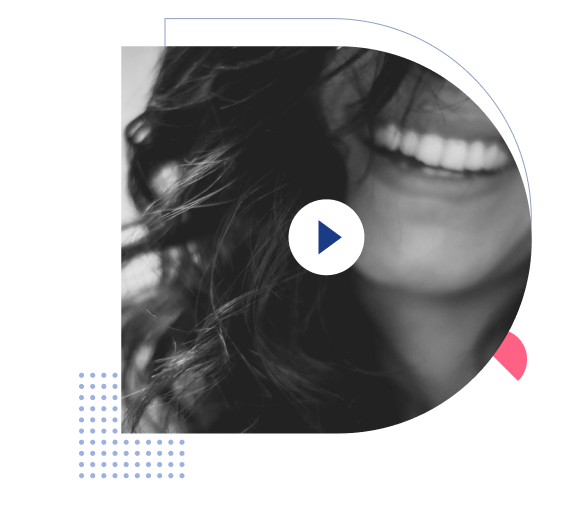
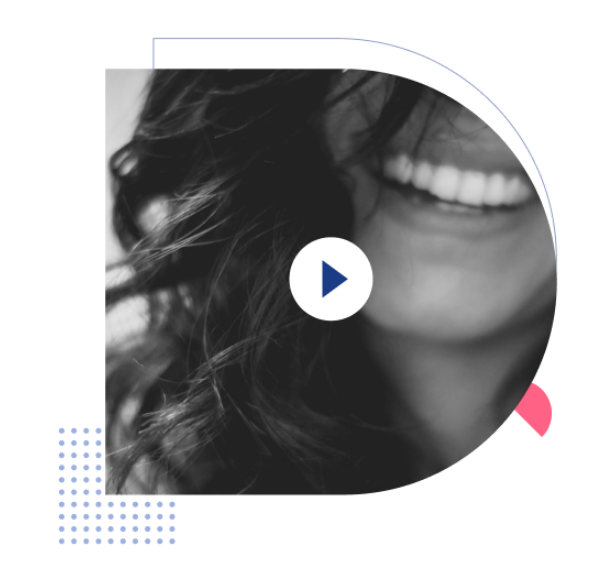
mobile version index fix2

Changed region(s): [[0.0895, 0.0302, 0.9544, 0.966], [0.4474, 0.7245, 0.507, 0.7547]]

diff --git a/index.html b/index.html
@@ -128,12 +128,15 @@
 
     <!-- section Two -->
     <div id="ServiceWeProvide" class="pb-5">
-        <div class="container-md pb-5">
+        <div class="container-md py-5">
             <div class="row">
-                <div class="col-sm-6 pt-5">
-                    <h1 class="ServiceTitle pt-5">Services We Provide</h1>
+                <div class="col">
+                    <h1 class="ServiceTitle">Services We Provide</h1>
                 </div>
-                <div class="col-sm-6 pt-5">
+                <div class="col pt-4 prev-next">
+                    <img src="img/prev-next.png" alt="prev-next" class="rounded mx-auto d-block">
+                </div>
+                <!-- <div class="col-sm-6 pt-5">
                     <div class="slideshow-container">
 
                         <div class="mySlides">
@@ -161,17 +164,17 @@
                         <span class="dot" onclick="currentSlide(2)"></span>
                         <span class="dot" onclick="currentSlide(3)"></span>
                     </div>
-                </div>
+                </div> -->
             </div>
             <!-- end first row -->
 
-            <div class="row">
+            <div class="row pt-5">
                 <div class="col-sm-4">
                     <div class="card" style="max-width:400px;">
                         <div class="card-img-overlay">
                             <img src="img/01.png" alt="01" class="img-fluid pt-3">
                         </div>
-                        <img class="card-img-top d-block " src="img/bright1.png" alt="Card image">
+                        <img class="card-img-top d-block" src="img/bright1.png" alt="Card image">
                         <div class="card-body ps-5">
                             <h4 class="card-title cardCss pt-2">Services We Provide</h4>
                             <p class="card-text mytag4 pt-2">Lorem ipsum dolor sit amet, consectetur adipiscing elit. Ut elit tellus, luctus nec ullamcorper mattis, </p>
@@ -209,52 +212,58 @@
     <!-- end section Two -->
 
     <!-- section Three -->
-    <div class="container-md pt-5 pb-5" id="OurBookingHours">
-        <h1 class="bookingHoursTitle center pt-5">Our Booking Hours</h1>
-        <p class="bookingHoursText center pt-4">inceptos himenaeos. Praesent et faucibus est. Fusce <br>viverra,ipsum nec laoreet porttitor, purus felis euismod turpis,</p>
+    <div class="container-md" id="OurBookingHours">
+        <h1 class="bookingHoursTitle center">Our Booking Hours</h1>
+        <p class="bookingHoursText center">inceptos himenaeos. Praesent et faucibus est. Fusce <br>viverra,ipsum nec laoreet porttitor, purus felis euismod turpis,</p>
 
-        <div class="pt-4 pb-5">
+        <div class="pb-1">
             <div class="gap-2 col-md-3 mx-auto button-box oneSpecial">
                 <fancyButton>Book Appointment</fancyButton>
             </div>
         </div>
 
     </div>
-    <div class="hoursTiming pt-4 pb-4">
+    <div class="hoursTiming py-4">
         <div class="row">
             <div class="col-sm-3">
-                <i class="fa-regular fa-clock icon-clock"></i>MON - FRI: 9 AM - 22 PM
+                <i class="fa-regular fa-clock icon-clock"></i>
+                <ct class="clock-text-css">MON - FRI: 9 AM - 22 PM</ct>
             </div>
             <div class="col-sm-3">
-                <i class="fa-regular fa-clock icon-clock"></i>MON - FRI: 9 AM - 22 PM
+                <i class="fa-regular fa-clock icon-clock"></i>
+                <ct class="clock-text-css">MON - FRI: 9 AM - 22 PM</ct>
             </div>
             <div class="col-sm-3">
-                <i class="fa-regular fa-clock icon-clock"></i>MON - FRI: 9 AM - 22 PM
+                <i class="fa-regular fa-clock icon-clock"></i>
+                <ct class="clock-text-css">MON - FRI: 9 AM - 22 PM</ct>
             </div>
             <div class="col-sm-3">
-                <i class="fa-regular fa-clock icon-clock"></i>MON - FRI: 9 AM - 22 PM
+                <i class="fa-regular fa-clock icon-clock"></i>
+                <ct class="clock-text-css">MON - FRI: 9 AM - 22 PM</ct>
             </div>
         </div>
     </div>
     <!-- end section Three -->
 
     <!-- section Four -->
-    <div class="container-md pt-5 pb-5">
+    <div class="container-md py-5">
         <div class="row">
             <div class="col-sm-1">
-                <img src="img/ballon.png" alt="ballon" class="img-fluid">
+                <img src="img/ballon.png" alt="ballon" class="img-fluid side-img-ballon">
             </div>
             <div class="col-sm-5">
-                <h1 class="video-section-hTag center pt-5">A Personalized Approach To Creating The Perfect Smile</h1>
-                <p class="video-section-paragraph pt-4">Curabitur ultricies est nulla, nec vestibulum erat imperdiet sit amet. Quisque ut viverra velit. Proin nunc nisi, ultrices ut risus a, blandit pulvinar ligula. Fusce convallis purus nunc, interdum pharetra lacus auctor nec.</p>
+                <h1 class="video-section-hTag">A Personalized Approach To Creating The Perfect Smile</h1>
+                <p class="video-section-paragraph pt-4" id="paragraph-center">Curabitur ultricies est nulla, nec vestibulum erat imperdiet sit amet. Quisque ut viverra velit. Proin nunc nisi, ultrices ut risus a, blandit pulvinar ligula. Fusce convallis purus nunc, interdum pharetra lacus auctor nec.</p>
 
-                <div class="button-box oneSpecial">
-                    <fancybutton>Book Appointment</fancybutton>
-                </div>
             </div>
             <div class="col-sm-6">
-                <img src="img/smiling-teeth.png" class="img-fluid pt-5" alt="smiling-teeth">
+                <img src="img/smiling-teeth.png" class="img-fluid" alt="smiling-teeth">
             </div>
+
+        </div>
+
+        <div class="button-box oneSpecial" id="button-box-center">
+            <fancybutton>Book Appointment</fancybutton>
         </div>
     </div>
     <!-- end section Four -->
@@ -262,12 +271,12 @@
     <!-- section Five -->
     <div id="ServiceWeProvide">
         <div class="container-md pb-5">
-            <div class="row">
-                <div class="col-sm-6 pt-5">
-                    <h1 class="ServiceTitle pb-5">What Our Clients Say</h1>
+            <div class="row py-5">
+                <div class="col">
+                    <h1 class="ServiceTitle">What Our Clients Say</h1>
                 </div>
-                <div class="col-sm-6 pt-5">
-                    <img src="img/prev-next.png" alt="prev-next" class="rounded mx-auto pt-3 d-block">
+                <div class="col pt-4 prev-next">
+                    <img src="img/prev-next.png" alt="prev-next" class="rounded mx-auto d-block">
                 </div>
             </div>
 
@@ -276,12 +285,12 @@
                     <div class="card" style="max-width:400px;">
                         <div class="card-body">
                             <h4 class="card-title cardCss pt-4">Hena Lee</h4>
-                            <i class="fa-solid fa-star"></i>
-                            <i class="fa-solid fa-star"></i>
-                            <i class="fa-solid fa-star"></i>
-                            <i class="fa-solid fa-star"></i>
-                            <i class="fa-solid fa-star"></i>
-                            <p class="card-text video-section-paragraph pt-5">
+                            <i class="fa-solid fa-star pt-2" style="color: #FFB800;"></i>
+                            <i class="fa-solid fa-star" style="color: #FFB800;"></i>
+                            <i class="fa-solid fa-star" style="color: #FFB800;"></i>
+                            <i class="fa-solid fa-star" style="color: #FFB800;"></i>
+                            <i class="fa-solid fa-star pb-2" style="color: #FFB800;"></i>
+                            <p class="card-text video-section-paragraph pt-2">
                                 Donec aliquet tellus sapien, id sagittis libero malesuada quis. Etiam molestie neque quis tortor luctus, quis congue erat placerat. Donec aliquet tellus sapien, id sagittis libero malesuada quis. Etiam molestieDonec aliquet tellus sapien, id sagittis
                                 libero malesuada quis.
                             </p>
@@ -293,12 +302,12 @@
                     <div class="card" style="max-width:400px;">
                         <div class="card-body">
                             <h4 class="card-title cardCss pt-4">Hena Lee</h4>
-                            <i class="fa-solid fa-star"></i>
-                            <i class="fa-solid fa-star"></i>
-                            <i class="fa-solid fa-star"></i>
-                            <i class="fa-solid fa-star"></i>
-                            <i class="fa-solid fa-star"></i>
-                            <p class="card-text video-section-paragraph pt-5">
+                            <i class="fa-solid fa-star pt-2" style="color: #FFB800;"></i>
+                            <i class="fa-solid fa-star" style="color: #FFB800;"></i>
+                            <i class="fa-solid fa-star" style="color: #FFB800;"></i>
+                            <i class="fa-solid fa-star" style="color: #FFB800;"></i>
+                            <i class="fa-solid fa-star pb-2" style="color: #FFB800;"></i>
+                            <p class="card-text video-section-paragraph pt-2">
                                 Donec aliquet tellus sapien, id sagittis libero malesuada quis. Etiam molestie neque quis tortor luctus, quis congue erat placerat. Donec aliquet tellus sapien, id sagittis libero malesuada quis. Etiam molestieDonec aliquet tellus sapien, id sagittis
                                 libero malesuada quis.
                             </p>
@@ -310,12 +319,12 @@
                     <div class="card" style="max-width:400px;">
                         <div class="card-body">
                             <h4 class="card-title cardCss pt-4">Hena Lee</h4>
-                            <i class="fa-solid fa-star"></i>
-                            <i class="fa-solid fa-star"></i>
-                            <i class="fa-solid fa-star"></i>
-                            <i class="fa-solid fa-star"></i>
-                            <i class="fa-solid fa-star"></i>
-                            <p class="card-text video-section-paragraph pt-5">
+                            <i class="fa-solid fa-star pt-2" style="color: #FFB800;"></i>
+                            <i class="fa-solid fa-star" style="color: #FFB800;"></i>
+                            <i class="fa-solid fa-star" style="color: #FFB800;"></i>
+                            <i class="fa-solid fa-star" style="color: #FFB800;"></i>
+                            <i class="fa-solid fa-star pb-2" style="color: #FFB800;"></i>
+                            <p class="card-text video-section-paragraph pt-2">
                                 Donec aliquet tellus sapien, id sagittis libero malesuada quis. Etiam molestie neque quis tortor luctus, quis congue erat placerat. Donec aliquet tellus sapien, id sagittis libero malesuada quis. Etiam molestieDonec aliquet tellus sapien, id sagittis
                                 libero malesuada quis.
                             </p>
@@ -327,12 +336,12 @@
                     <div class="card" style="max-width:400px">
                         <div class="card-body">
                             <h4 class="card-title cardCss pt-4">Hena Lee</h4>
-                            <i class="fa-solid fa-star"></i>
-                            <i class="fa-solid fa-star"></i>
-                            <i class="fa-solid fa-star"></i>
-                            <i class="fa-solid fa-star"></i>
-                            <i class="fa-solid fa-star"></i>
-                            <p class="card-text video-section-paragraph pt-5">
+                            <i class="fa-solid fa-star pt-2" style="color: #FFB800;"></i>
+                            <i class="fa-solid fa-star" style="color: #FFB800;"></i>
+                            <i class="fa-solid fa-star" style="color: #FFB800;"></i>
+                            <i class="fa-solid fa-star" style="color: #FFB800;"></i>
+                            <i class="fa-solid fa-star pb-2" style="color: #FFB800;"></i>
+                            <p class="card-text video-section-paragraph pt-2">
                                 Donec aliquet tellus sapien, id sagittis libero malesuada quis. Etiam molestie neque quis tortor luctus, quis congue erat placerat. Donec aliquet tellus sapien, id sagittis libero malesuada quis. Etiam molestieDonec aliquet tellus sapien, id sagittis
                                 libero malesuada quis.
                             </p>
@@ -348,12 +357,12 @@
 
     <!-- section Six -->
     <div class="container-md pt-5 pb-5">
-        <h1 class="mytag2 center pt-5">See Our Previous Client Improvement</h1>
+        <h1 class="mytag2 center">See Our Previous Client Improvement</h1>
         <p class="mytag3 pt-4">Curabitur ultricies est nulla, nec vestibulum erat imperdiet sit amet. Quisque ut viverra velit. Proin nunc nisi</p>
 
         <!-- fancy carousal -->
         <div id="fancy-carousal-slide">
-            <img src="img/fancy-carousal-slider.png" alt="smiling" class="rounded mx-auto pt-3 d-block">
+            <img src="img/fancy-carousal-slider.png" alt="smiling" class="rounded mx-auto d-block">
         </div>
         <!-- end fancy carousal -->
 

diff --git a/css/style.css b/css/style.css
@@ -176,7 +176,8 @@ a:active {
     border-radius: 0px;
     font-family: 'Red Hat Display' !important;
     font-style: normal !important;
-    margin-top: 0%;
+    padding-top: 6% !important;
+    padding-bottom: 6% !important;
 }
 
 #tourPlayCover {
@@ -487,7 +488,6 @@ q {
     background-color: #EDFBFF;
     max-width: 89.43px;
     max-height: 89.43px;
-    /* margin-left: 220px !important; */
     float: right !important;
 }
 
@@ -610,6 +610,14 @@ q {
 .icon-clock {
     color: #FF6285;
     margin-right: 10px;
+}
+
+.clock-text-css {
+    font-family: 'Red Hat Display' !important;
+    font-style: normal !important;
+    font-weight: 700;
+    line-height: 28px;
+    color: #1A3C86;
 }
 
 #fancy-carousal-slide {
@@ -757,6 +765,7 @@ q {
     .ServiceTitle {
         font-size: 30px;
         line-height: 40px;
+        max-width: 183px;
     }
     .service-list-link {
         display: none;
@@ -789,6 +798,35 @@ q {
         max-width: 202px;
         margin: 100px auto;
         padding: 10px 16px;
+    }
+    #OurBookingHours {
+        max-width: 381px;
+        max-height: 273px;
+    }
+    .bookingHoursTitle {
+        font-size: 30px;
+        line-height: 75px;
+    }
+    .bookingHoursText {
+        font-size: 13px;
+        line-height: 20px;
+    }
+    .side-img-ballon {
+        display: none;
+    }
+    .video-section-hTag {
+        max-width: 330px;
+        font-size: 30px;
+        line-height: 45px;
+        text-align: center;
+    }
+    #paragraph-center {
+        line-height: 28px;
+        text-align: center;
+    }
+    #fancy-carousal-slide {
+        max-width: 606px;
+        max-height: 384px;
     }
 }
 
